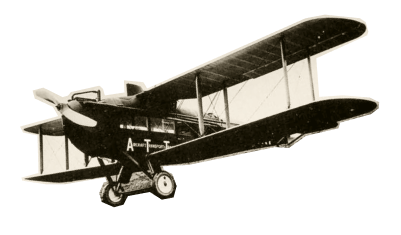
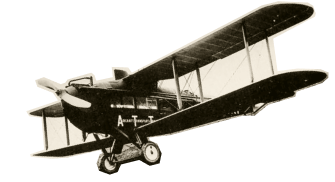
add mobile airplane

Changed region(s): [[0.0299, 0.0, 0.9851, 0.9615]]

diff --git a/index.html b/index.html
@@ -37,18 +37,12 @@
             </p>
           </div>
           <div class="hero__buttons-wrapper">
-            <button 
-            class="button" 
-            type="button">
-            <a href="#block-info">
-              Поддержать шахматную мысль</a>
+            <button class="button" type="button">
+              <a href="#block-info"> Поддержать шахматную мысль</a>
             </button>
-            <button 
-            class="button button-alt" 
-            type="button">
-            <a  href="#block-table"> Подробнее о турнире  </a>
+            <button class="button button-alt" type="button">
+              <a href="#block-table"> Подробнее о турнире </a>
             </button>
-        
           </div>
         </div>
       </section>
@@ -123,6 +117,13 @@
           </div>
         
           <div id="slider-stages" class="stages__content">
+            <img
+            class="stages__img"
+            src="./images/img/airplane.png"
+            alt="airplane"
+            loading="lazy"
+          />
+
           </div>
 
           <div class="stages__buttons-wrapper buttons-carousel-wrapper">
@@ -131,9 +132,11 @@
               id="stages-btn-left"
               class="button-carousel svg arrow-left"
             ></button>
-            <div id="counter-stages"  class="counter stages__counter">
-            </div>
-            <div class="pagination stages__pagination" id="pagination-stages"></div>
+            <div id="counter-stages" class="counter stages__counter"></div>
+            <div
+              class="pagination stages__pagination"
+              id="pagination-stages"
+            ></div>
             <button
               type="button"
               id="stages-btn-right"
@@ -147,9 +150,8 @@
           <div class="participants__title">
             <h2>Участники турнира</h2>
           </div>
-          
-          <div id="slider-participants" class="participants__content">
-          </div>
+
+          <div id="slider-participants" class="participants__content"></div>
 
           <div class="participants__buttons-wrapper buttons-carousel-wrapper">
             <button
@@ -157,9 +159,14 @@
               id="participants-btn-left"
               class="button-carousel svg arrow-left"
             ></button>
-            <div id="counter-participants"  class="counter participants--counter">
-            </div>
-            <div class="pagination participants--pagination" id="pagination-participants"></div>
+            <div
+              id="counter-participants"
+              class="counter participants--counter"
+            ></div>
+            <div
+              class="pagination participants--pagination"
+              id="pagination-participants"
+            ></div>
             <button
               type="button"
               id="participants-btn-right"
@@ -170,13 +177,13 @@
       </section>
     </main>
     <footer class="footer">
-      <div class="running-line h4 running-line__footer" >
+      <div class="running-line h4 running-line__footer">
         <p class="running-text"></p>
       </div>
-      <div class="footer__text"
-
-      >
-        Все персонажи, события и цитаты являются вымышленными и не принадлежат создателям сайта. С подробностями можно познакомиться в главе XXXIV романа Ильи Ильфа и Евгения Петрова «Двенадцать стульев».
+      <div class="footer__text">
+        Все персонажи, события и цитаты являются вымышленными и не принадлежат
+        создателям сайта. С подробностями можно познакомиться в главе XXXIV
+        романа Ильи Ильфа и Евгения Петрова «Двенадцать стульев».
       </div>
     </footer>
     <script type="module" src="index.js"></script>

diff --git a/styles/blocks/_stages.scss b/styles/blocks/_stages.scss
@@ -29,7 +29,20 @@
         }
     }
 
+    &__img {
+        position: absolute;
+        width: 335px;
+        height: 182px;
+        top: -128px;
+        right: 0px;
+        //filter: drop-shadow(5px 5px 5px #222);
+        filter: drop-shadow(0 0 1px rgb(20, 220, 87));
+        //box-shadow: 2px 2px 2px 1px rgba(0, 0, 0, 0.2);
+
+    }
+
     &__content {
+        position: relative;
         display: flex;
         align-items: center;
         justify-content: center;

diff --git a/styles/styles.css b/styles/styles.css
@@ -912,7 +912,16 @@ table td {
     justify-self: start;
   }
 }
+.stages__img {
+  position: absolute;
+  width: 335px;
+  height: 182px;
+  top: -128px;
+  right: 0px;
+  filter: drop-shadow(0 0 1px rgb(20, 220, 87));
+}
 .stages__content {
+  position: relative;
   display: flex;
   align-items: center;
   justify-content: center;
